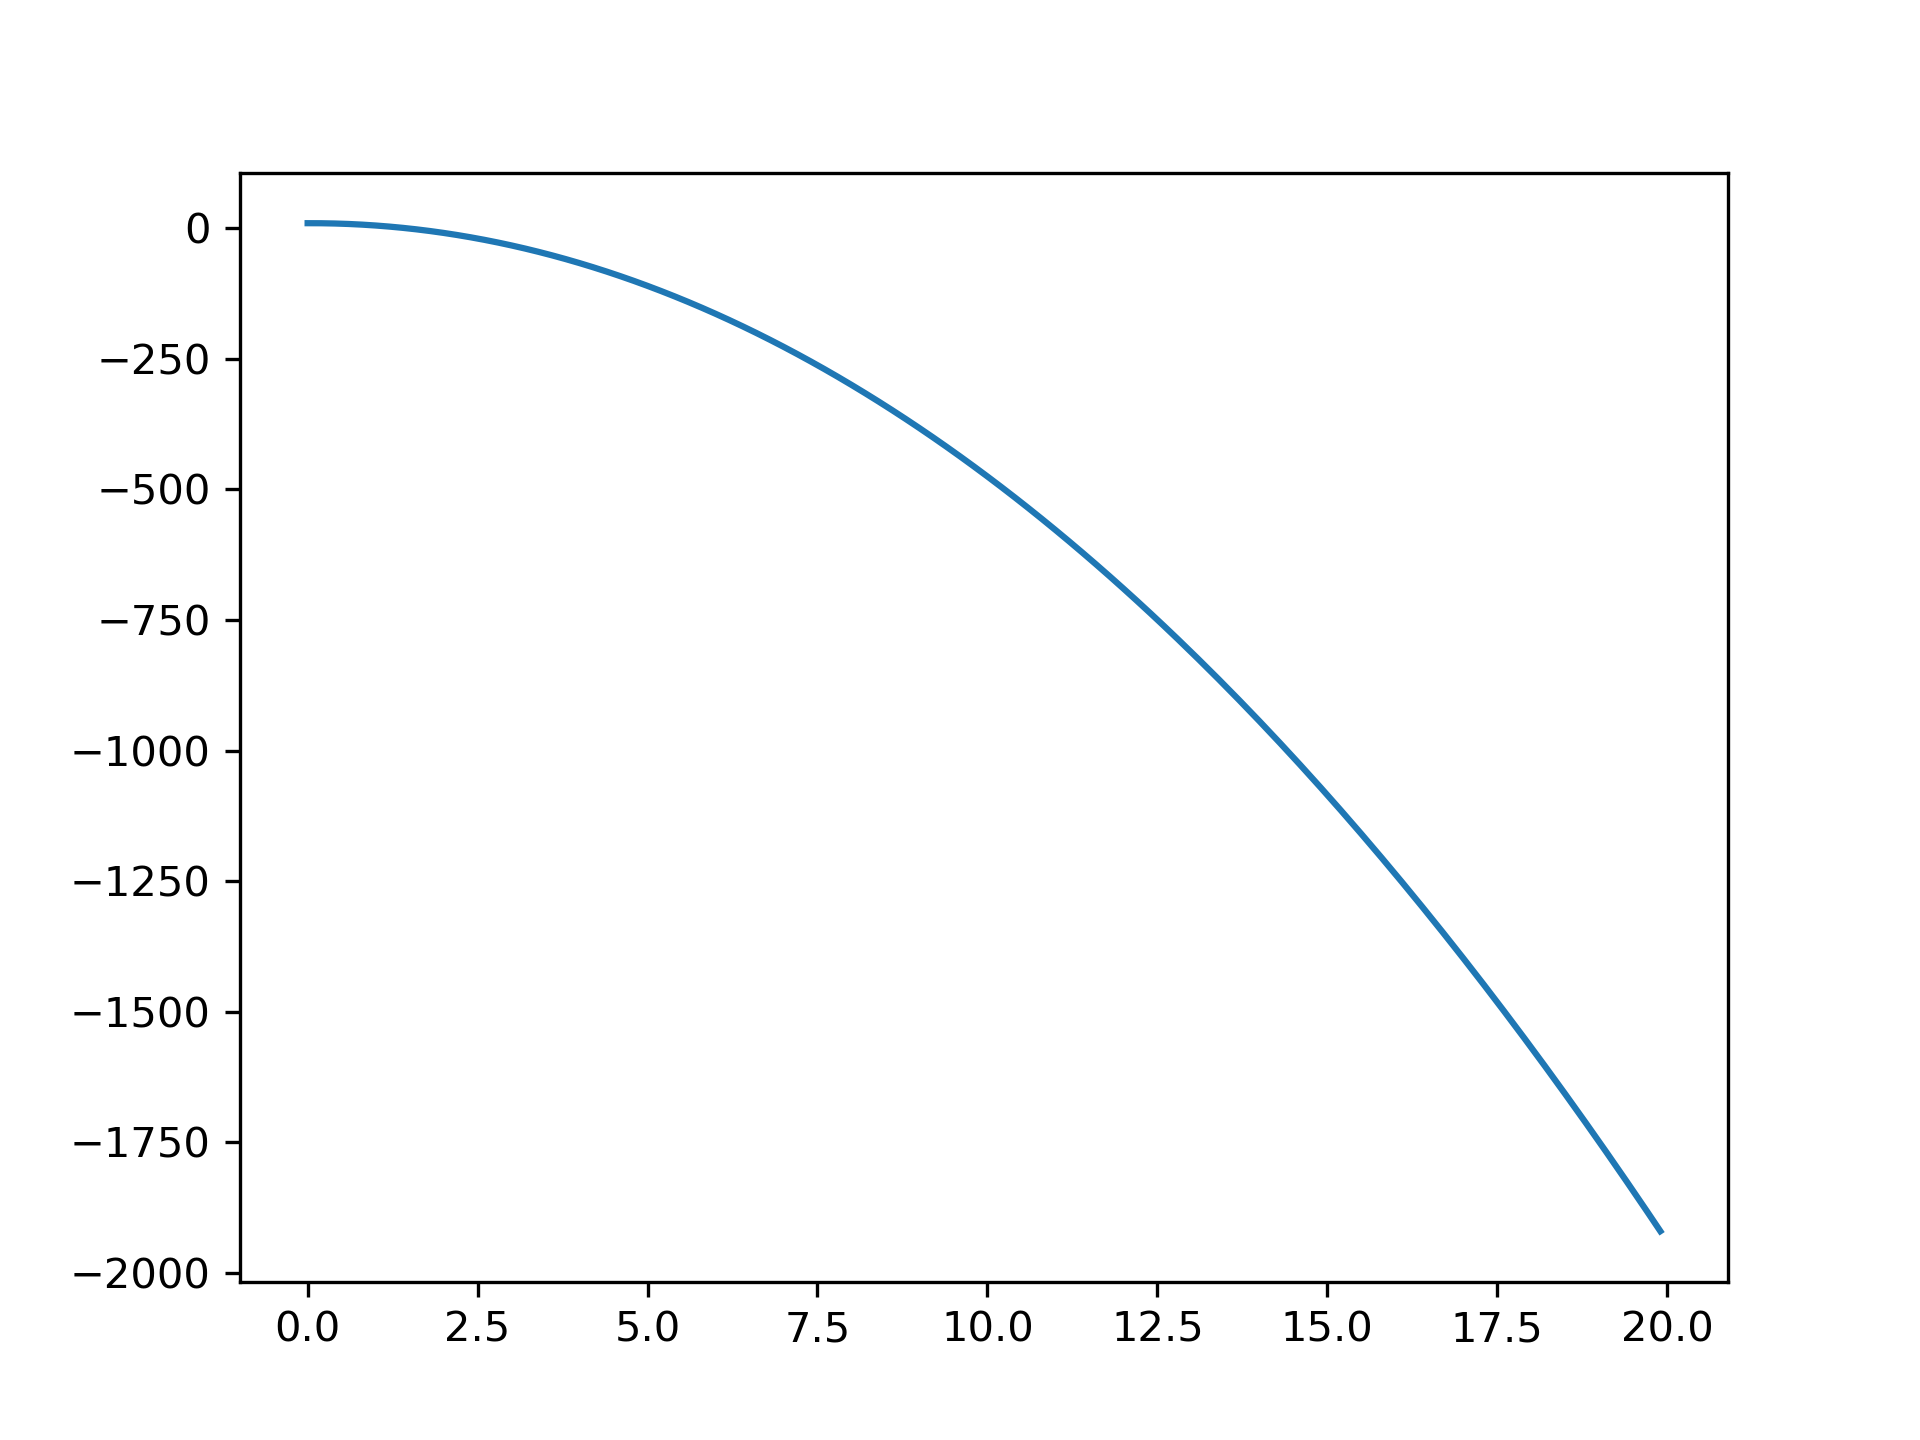
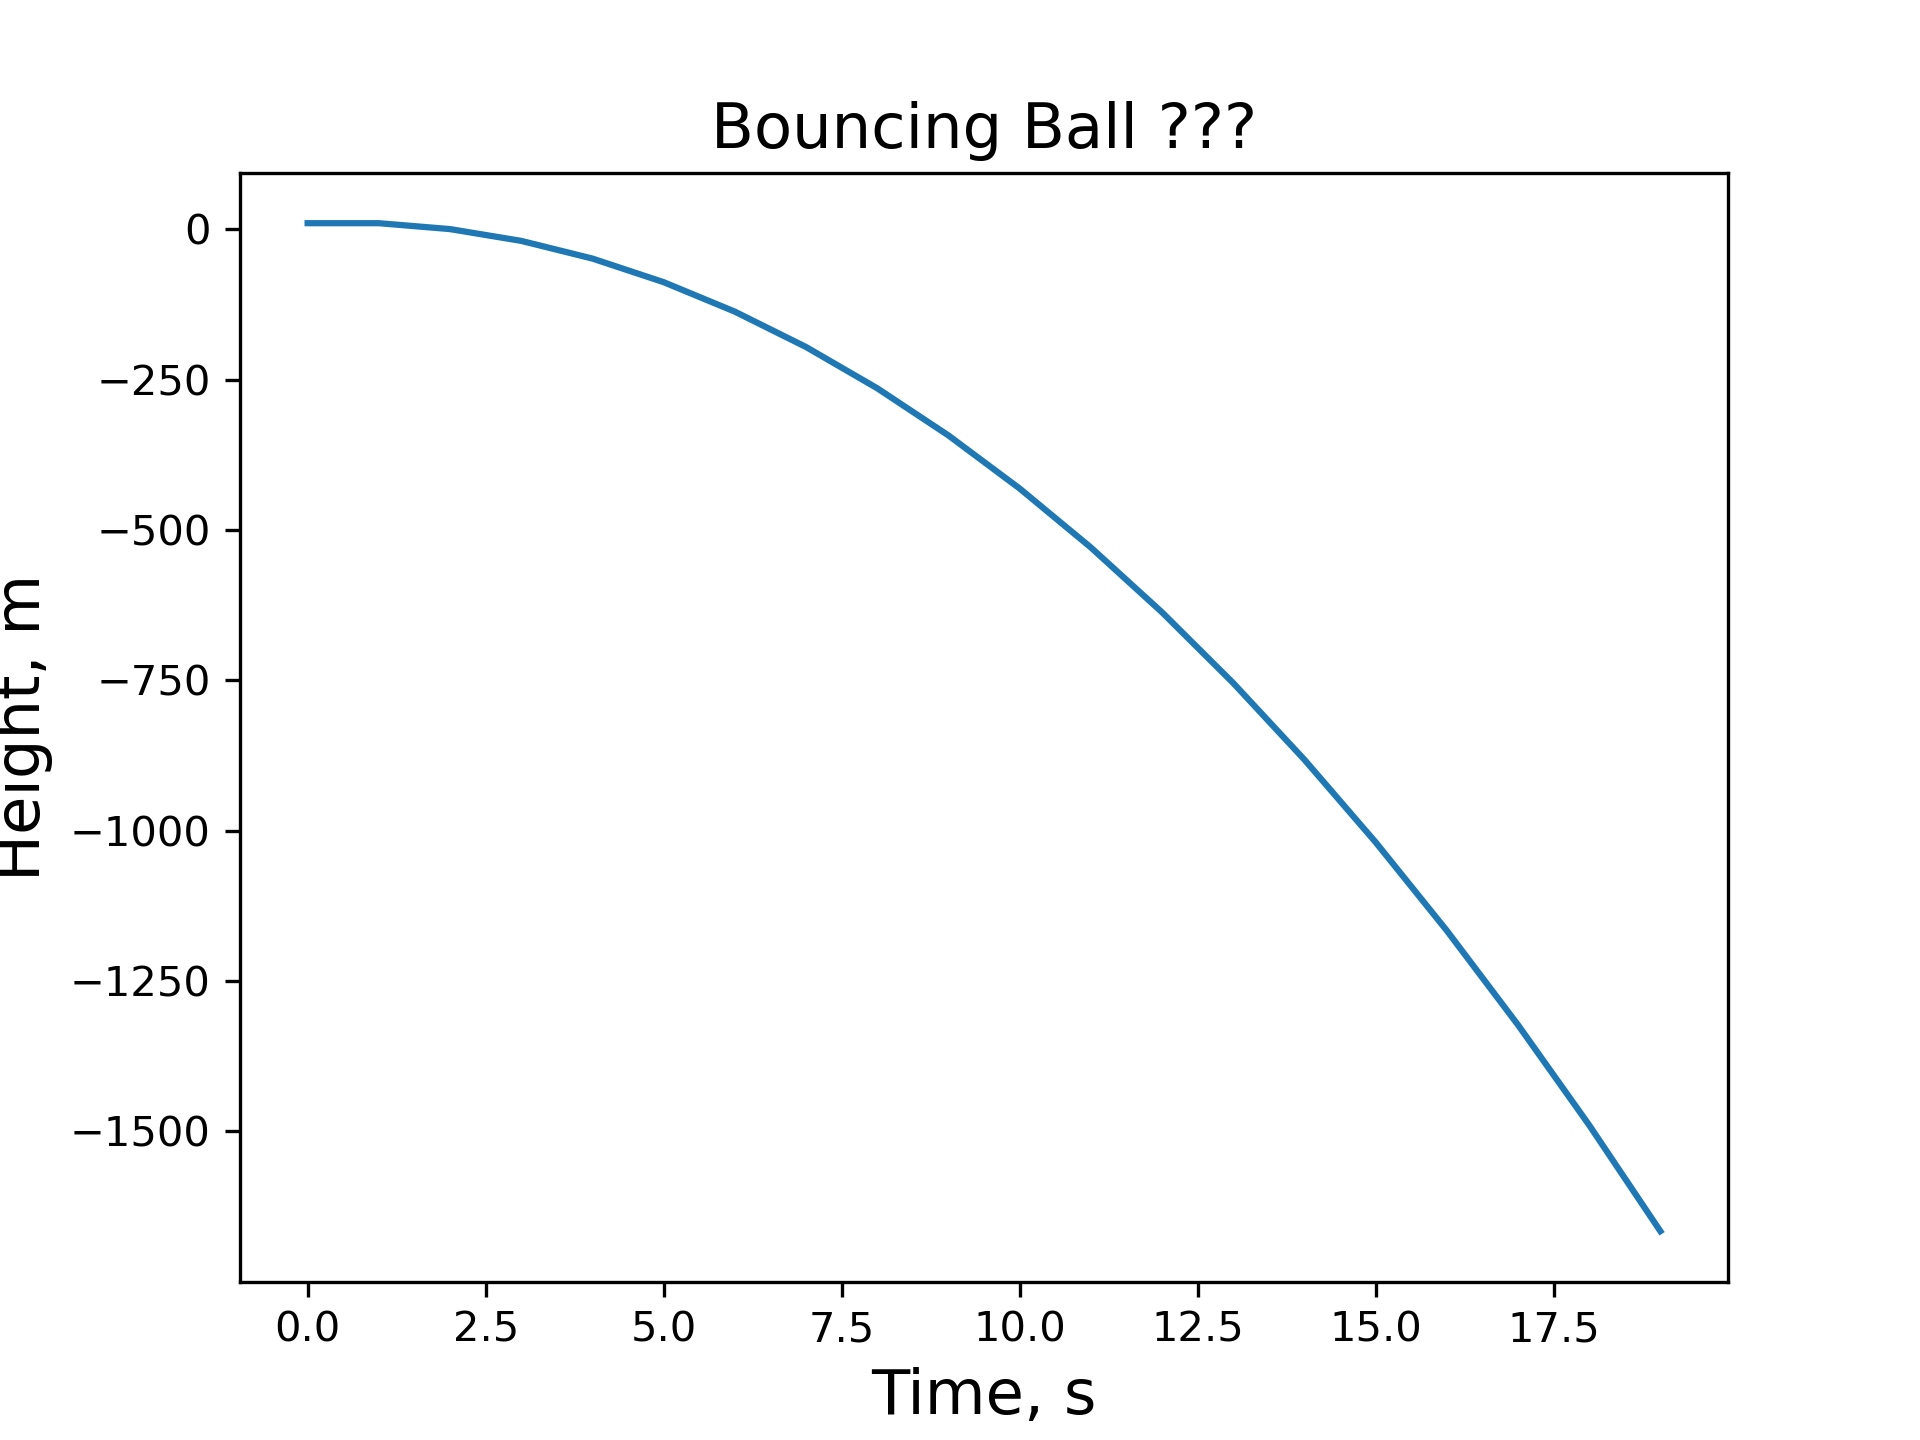
Student Version

diff --git a/notes/codes/Chapter_5/5.2_Second_Order_ODEs/5.2.1_Bouncing_Ball.py b/notes/codes/Chapter_5/5.2_Second_Order_ODEs/5.2.1_Bouncing_Ball.py
@@ -16,7 +16,7 @@ def getGlobals():
 
     TMIN   = 0.0
     TMAX   = 20.0
-    dT     = 0.1 # Convergence parameter
+    dT     = 1.0 # Convergence parameter
 
     TIME_GRID = np.arange( TMIN, TMAX, dT )
     NSTEPS = len(TIME_GRID)
@@ -41,12 +41,19 @@ def Euler_Propagate():
 def plot():
 
     plt.plot( TIME_GRID, h_t )
+    plt.xlabel("Time, s", fontsize=15)
+    plt.ylabel("Height, m", fontsize=15)
+    plt.title("Bouncing Ball ???", fontsize=15)
     plt.savefig(f"{DATA_DIR}/h_t",dpi=300)
 
 def main():
     getGlobals()
     Euler_Propagate()
     plot()
+
+    print("\n\tA. Do we bounce ?")
+    print("\tB. Do we gain or lose energy ?")
+    print("\tC. What if we lost energy when we bouce ? Diss. ~ v(t)")
 
 if ( __name__ == "__main__" ):
     main()
